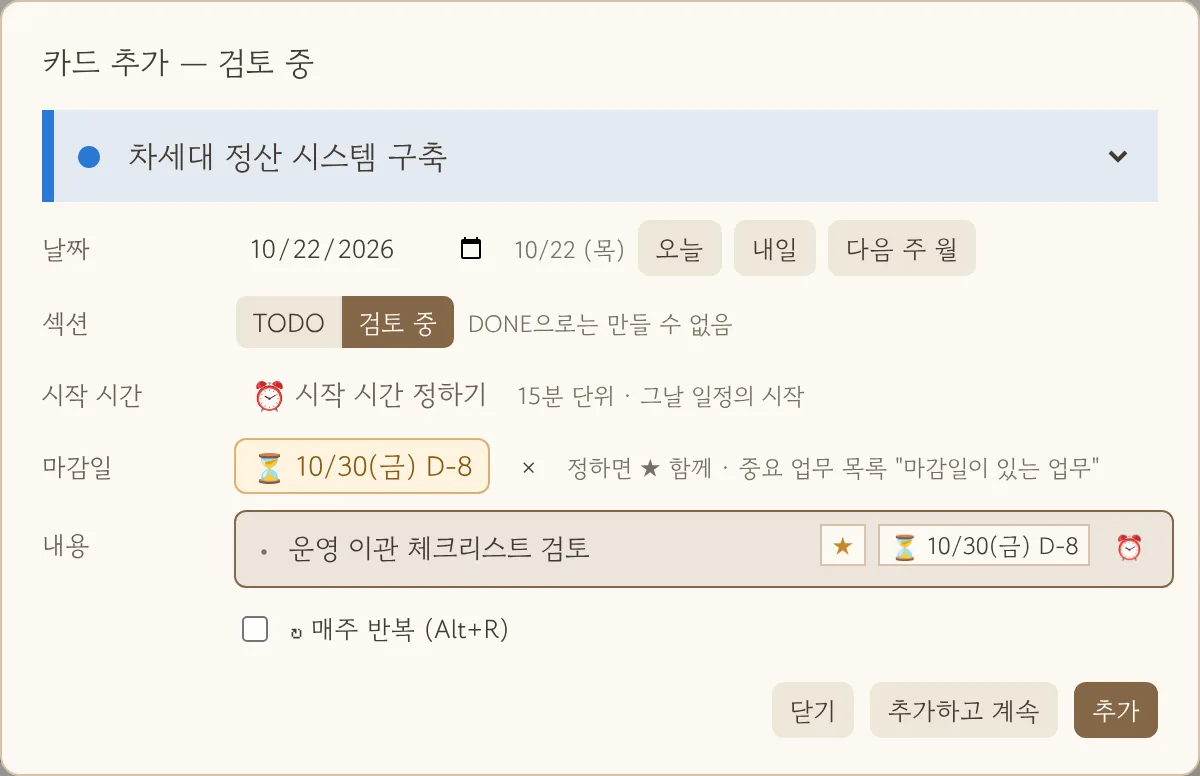
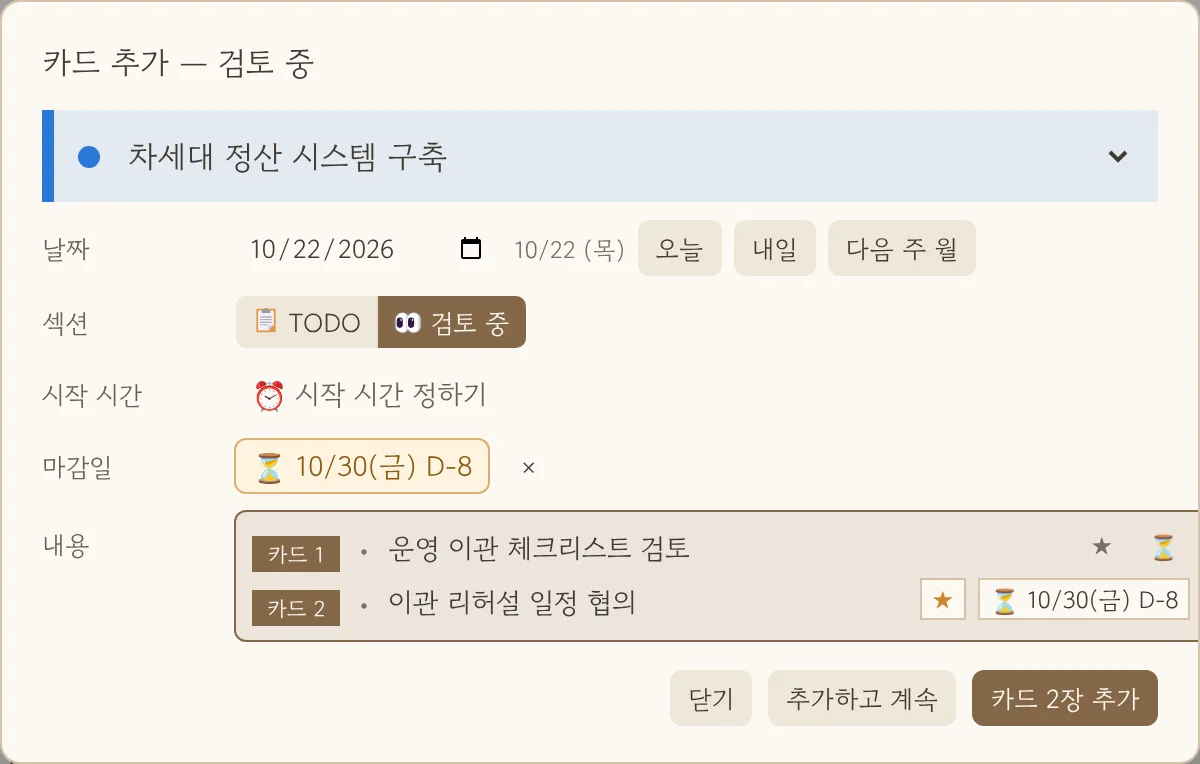
site·README: 칸반 스크린샷 1.40 기준으로 교체
- 칸반 보드(섹션 아이콘·사용자 섹션 ★ 항목과 중요 업무 목록 섹션 칩)·자유 배치·카드 추가 창(카드 1·2 꼬리표·[카드 2장 추가]) 다시 찍음 — site/shots 3장, docs/screenshots/kanban-signature.png
- scripts/site/shots.mjs 칸반 장면에 ★ 항목 이동·두 줄 입력 추가, 사이트 그림 설명·README 대체 글 갱신
- 앱 코드·버전 변화 없음, 가상 샘플만

Claude-Session: https://claude.ai/code/session_01CEskZPS32ZwwyCurFibJtk

diff --git a/site/index.html b/site/index.html
@@ -148,9 +148,9 @@
           <li><span>05 / FINISH</span><h3>한 번에 정리</h3><p>새 카드는 업무·시작 시간·마감일과 함께 바로 추가. 쌓인 카드는 일괄 완료로 끝내고, 필요하면 묶음째 되돌립니다.</p></li>
         </ul>
         <div class="kb-screens">
-          <figure class="kb-main"><img src="./shots/kanban.webp" alt="실제 앱 칸반 보드 — TODO·검토 중·DONE 열과 왼쪽 중요 업무 목록(가상 기록)" width="1600" height="1000" loading="lazy"><figcaption>TODO · 사용자 섹션 · DONE — 왼쪽 중요 업무 목록과 함께 움직입니다</figcaption></figure>
+          <figure class="kb-main"><img src="./shots/kanban.webp" alt="실제 앱 칸반 보드 — 섹션 아이콘이 붙은 TODO·검토 중·DONE 열과 왼쪽 중요 업무 목록, 검토 중 칩이 붙은 ★ 항목(가상 기록)" width="1600" height="1000" loading="lazy"><figcaption>TODO · 사용자 섹션 · DONE — 섹션마다 아이콘, 왼쪽 중요 업무 목록과 함께 움직입니다</figcaption></figure>
           <figure><img src="./shots/kanban-free.webp" alt="실제 앱 칸반 자유 배치 — DONE 섹션을 아래로 옮긴 모습(가상 기록)" width="1600" height="1000" loading="lazy"><figcaption>자유 배치 — 머리를 끌어 위치, 모서리로 크기</figcaption></figure>
-          <figure><img src="./shots/kanban-add.webp" alt="실제 앱 카드 추가 창 — 업무 띠·날짜·섹션·시작 시간·마감일(가상 기록)" width="1200" height="776" loading="lazy"><figcaption>카드 추가 — 업무 띠, 시작 시간과 마감일은 각각 따로</figcaption></figure>
+          <figure><img src="./shots/kanban-add.webp" alt="실제 앱 카드 추가 창 — 업무 띠·섹션 아이콘·마감일, 두 줄이 카드 1·카드 2로 표시되고 [카드 2장 추가](가상 기록)" width="1200" height="764" loading="lazy"><figcaption>카드 추가 — 한 줄이 카드 한 장, 업무 띠·시작 시간·마감일</figcaption></figure>
         </div>
       </div>
     </section>

diff --git a/README.md b/README.md
@@ -38,7 +38,7 @@
 
 | 칸반 보드 — 업무 항목을 상태로 한눈에 (**NEW 1.40**) | 칸반 자유 배치 — 섹션 위치·크기를 내 마음대로 |
 |---|---|
-| ![칸반 보드 — TODO·사용자 섹션·DONE과 중요 업무 목록](docs/screenshots/kanban-signature.png) | ![칸반 자유 배치 — DONE 섹션을 아래로 옮긴 모습](site/guide/shots/15-kanban-free.png) |
+| ![칸반 보드 — 섹션 아이콘이 붙은 TODO·사용자 섹션·DONE과 중요 업무 목록](docs/screenshots/kanban-signature.png) | ![칸반 자유 배치 — DONE 섹션을 아래로 옮긴 모습](site/guide/shots/15-kanban-free.png) |
 
 | 주간 요약 — 기록을 보고서로 | 인사이트 — 업무 타임라인과 활동 |
 |---|---|
